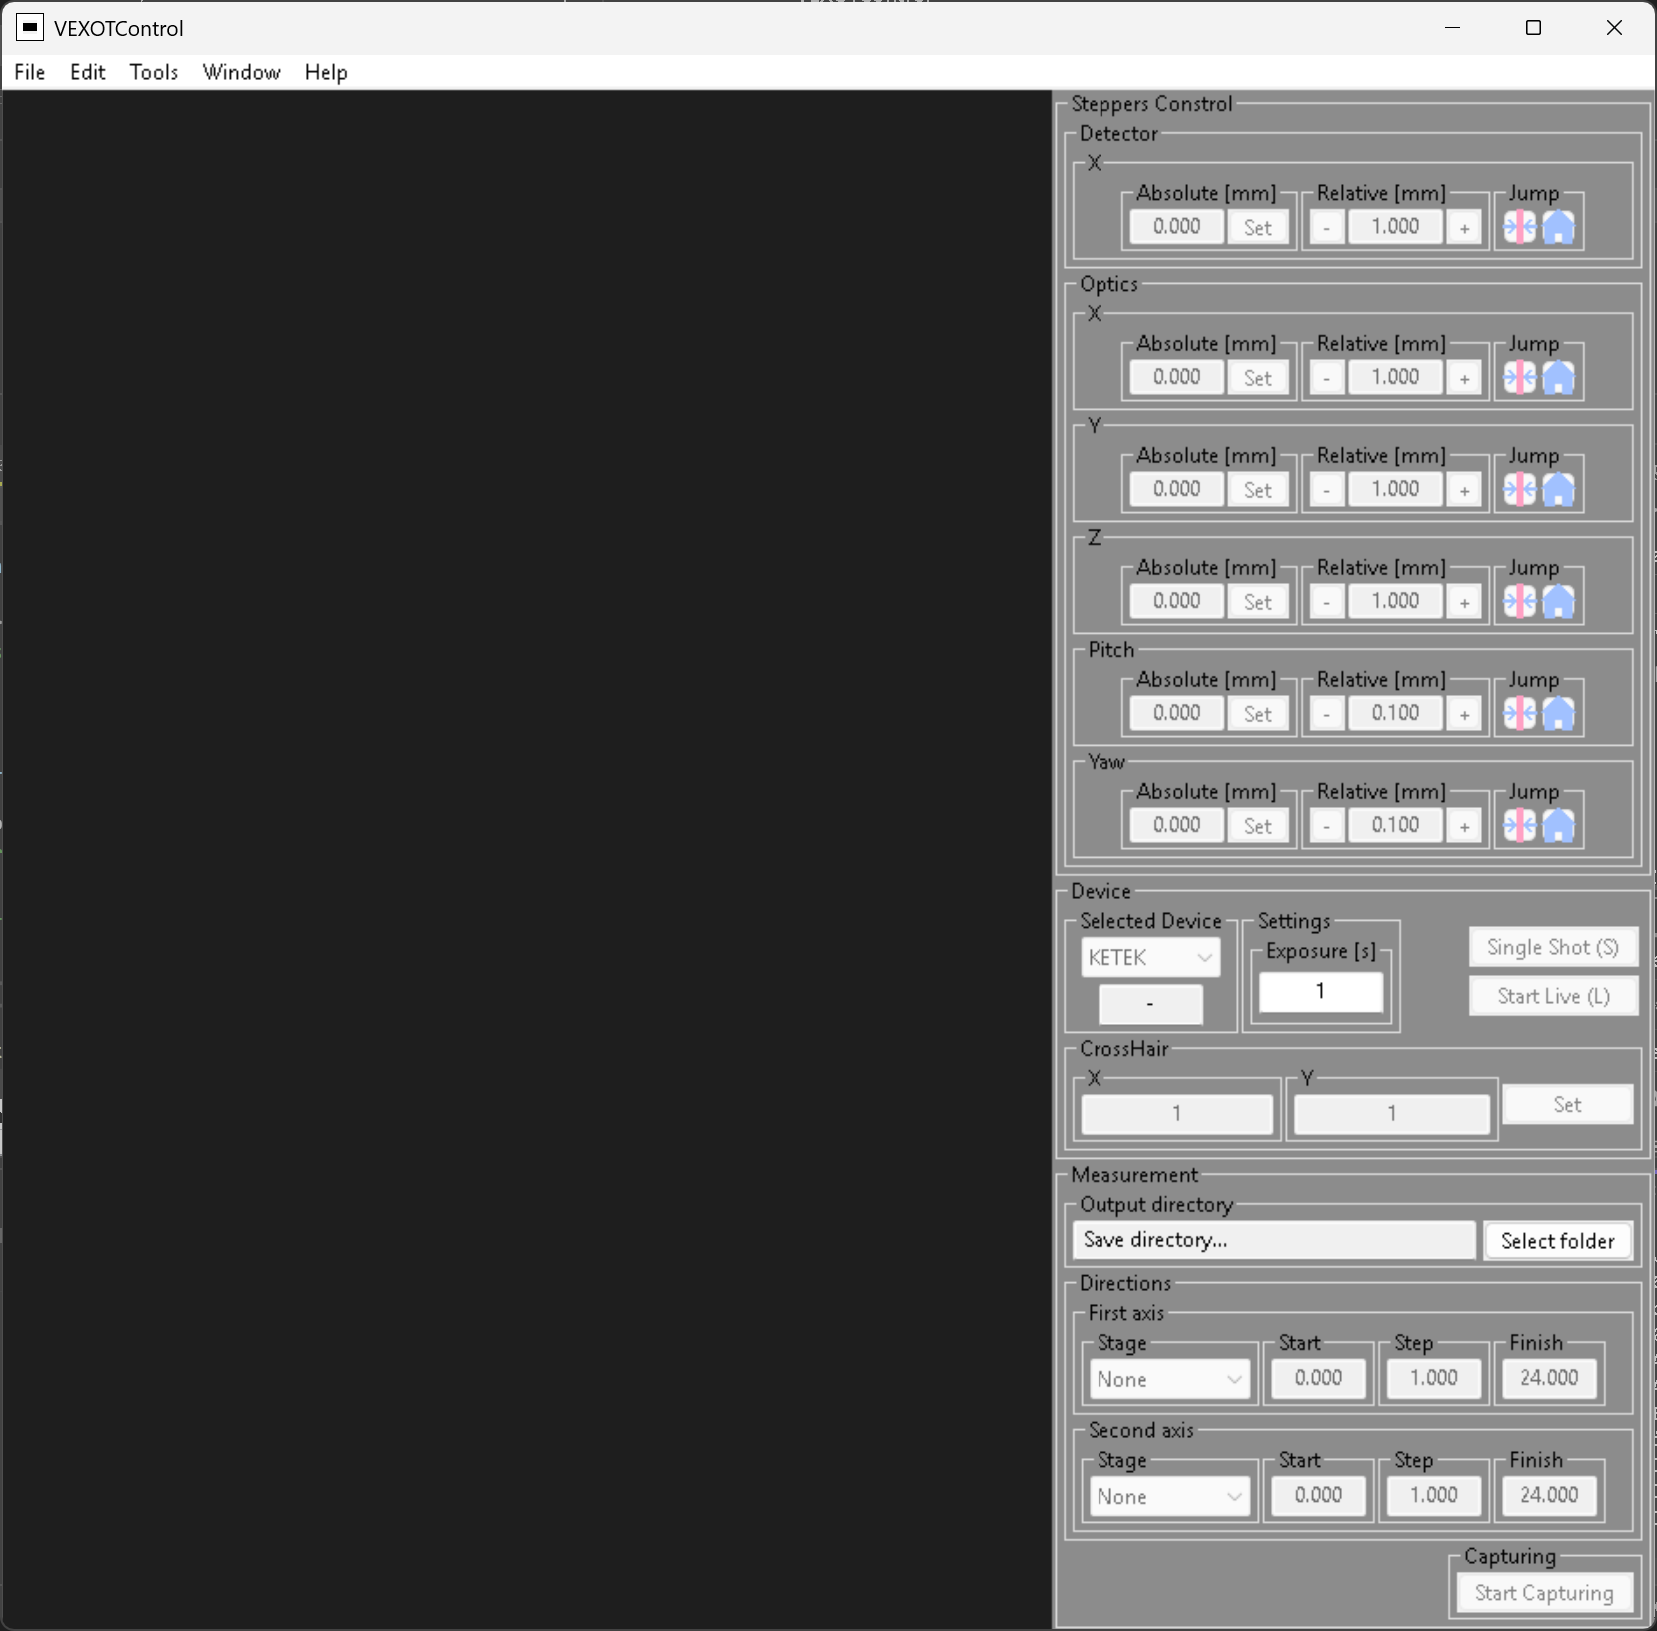
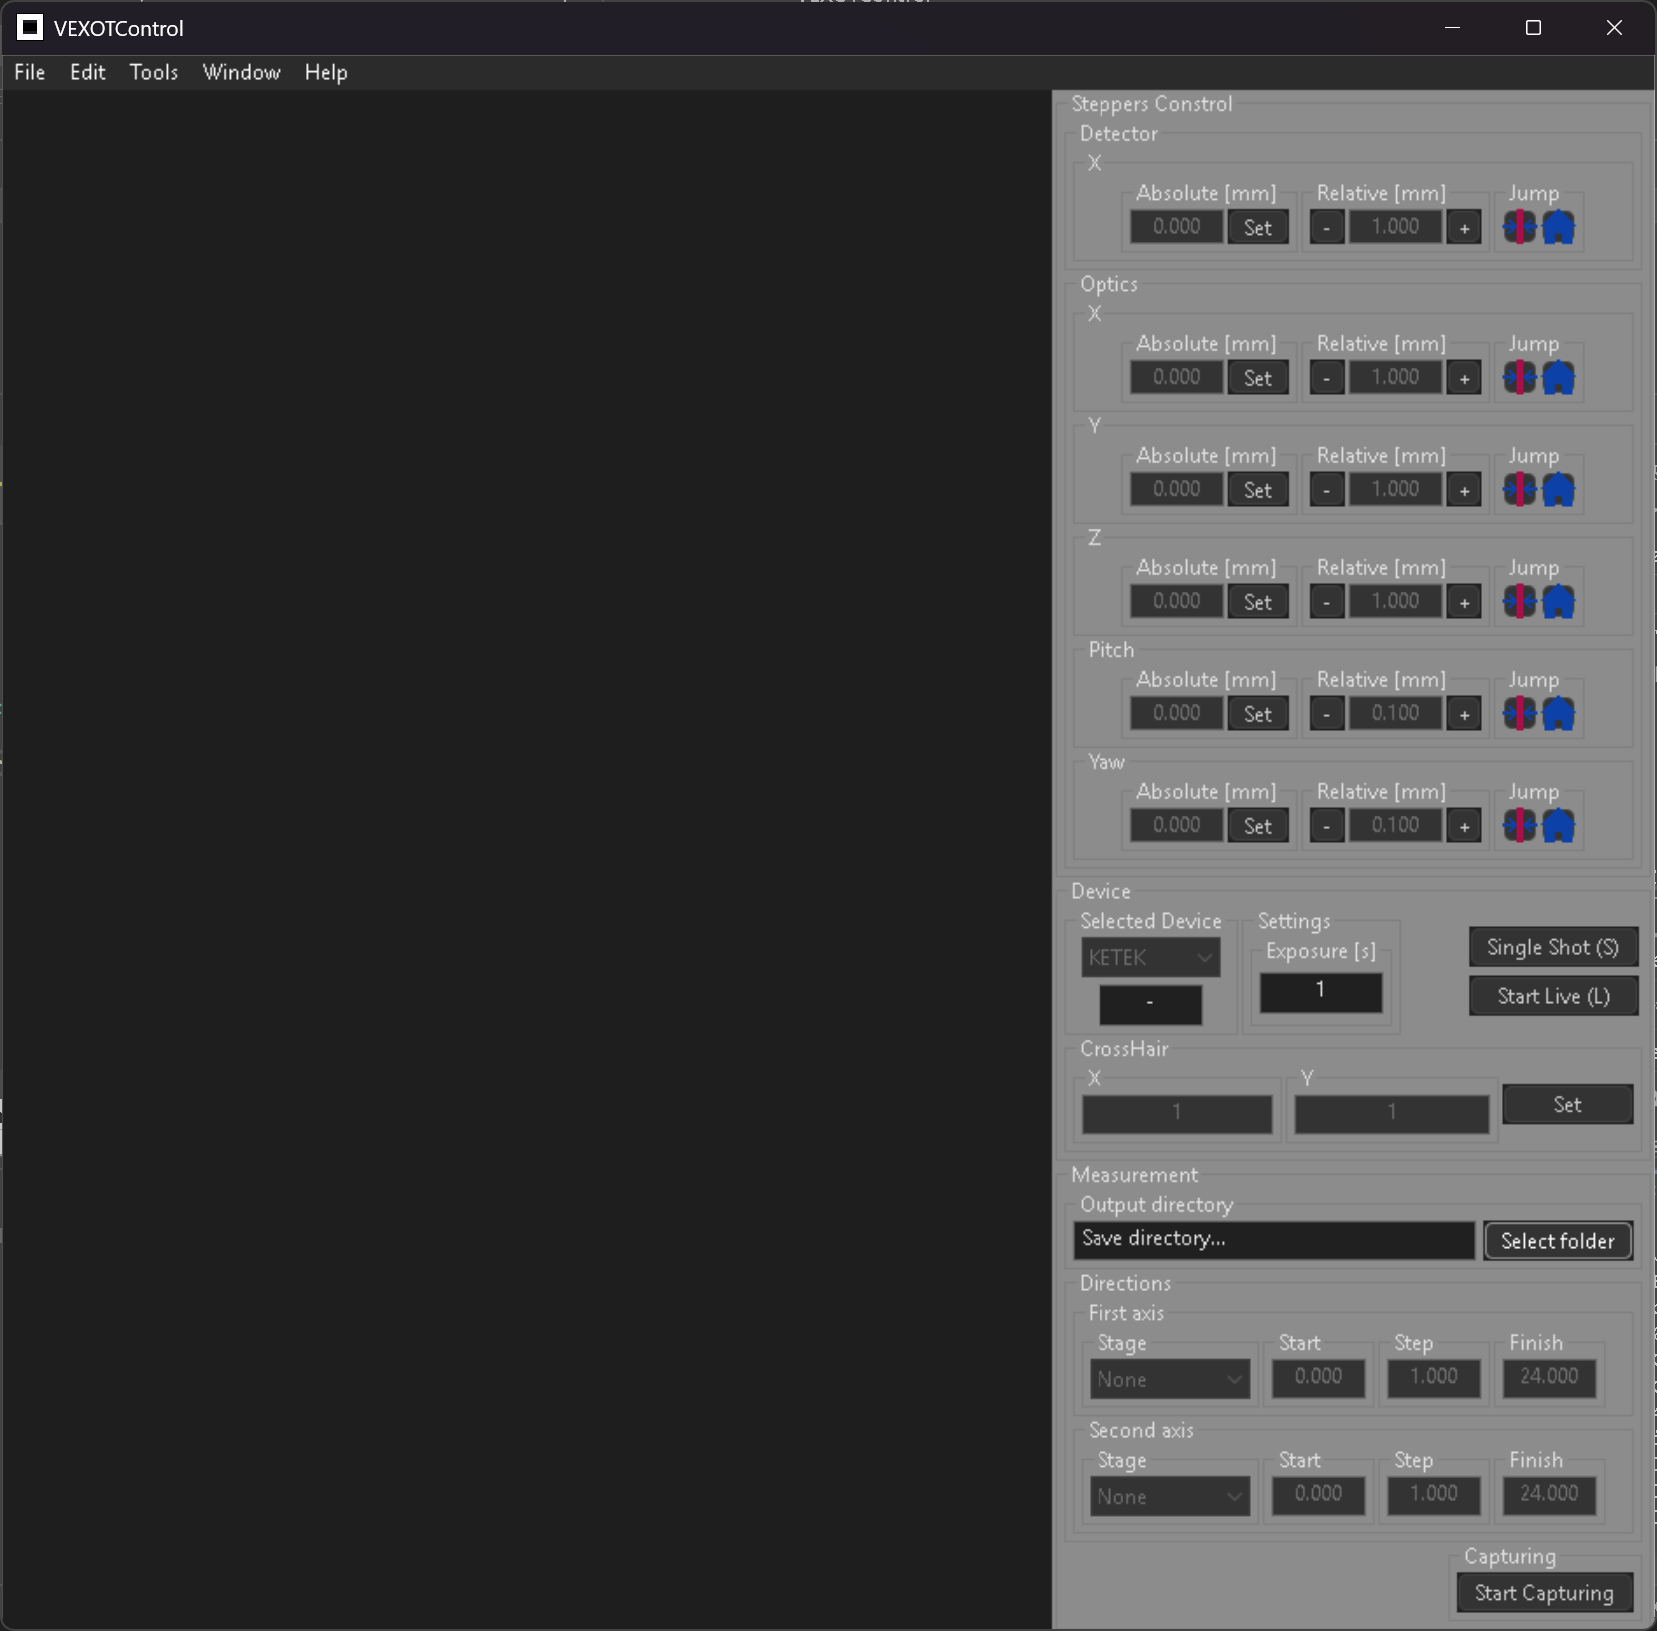
Updated Dark mode.

Changed region(s): [[0.0, 0.0, 1.0, 1.0]]

diff --git a/VEXOTControl/cApp.cpp b/VEXOTControl/cApp.cpp
@@ -2,19 +2,11 @@
 
 wxIMPLEMENT_APP(cApp);
 
-cApp::cApp()
-{
-}
-
 bool cApp::OnInit()
 {
+	SetAppearance(Appearance::System);
+
 	::wxInitAllImageHandlers();
-	m_cMainFrame = new cMain(wxT("VEXOTControl"));
-	//m_cMainFrame->Show();
+	auto frame = new cMain(wxT("VEXOTControl"));
 	return true;
-}
-
-cApp::~cApp()
-{
-
 }

diff --git a/VEXOTControl/cApp.h b/VEXOTControl/cApp.h
@@ -7,12 +7,7 @@
 class cApp final : public wxApp
 {
 public:
-	cApp();
 	virtual bool OnInit();
-	~cApp();
-
-private:
-	cMain* m_cMainFrame{};
 };
 
 #endif // !CAPP_H
